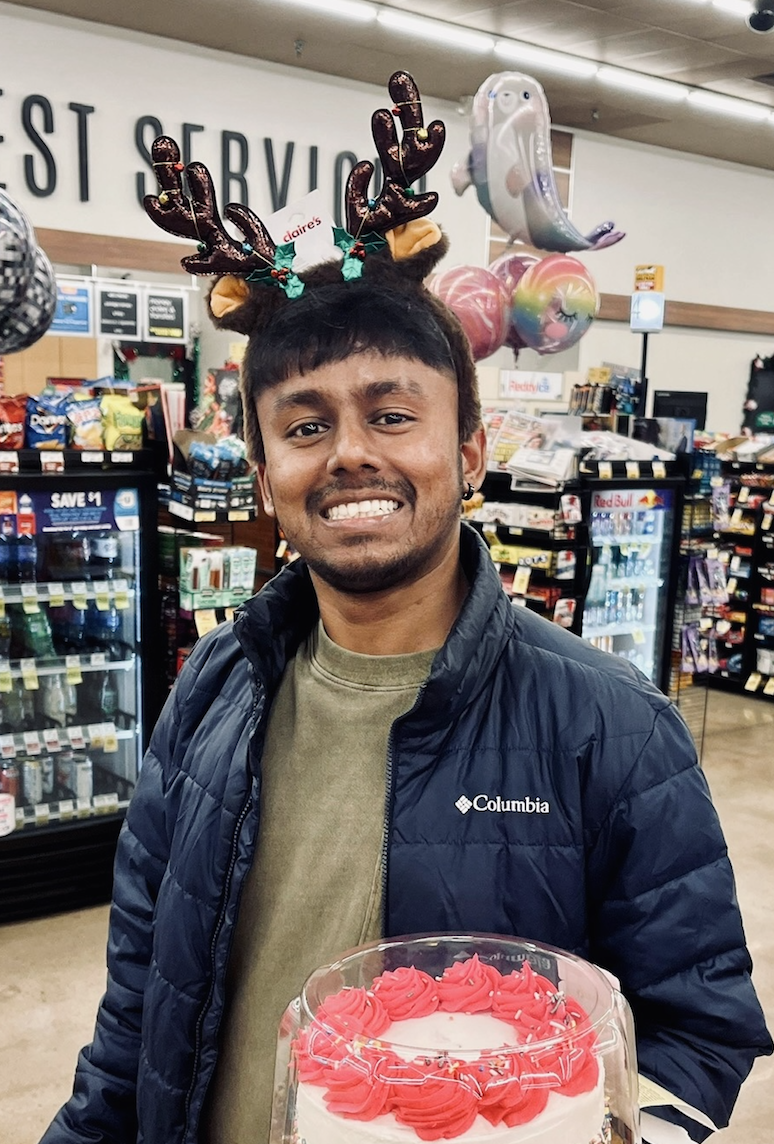
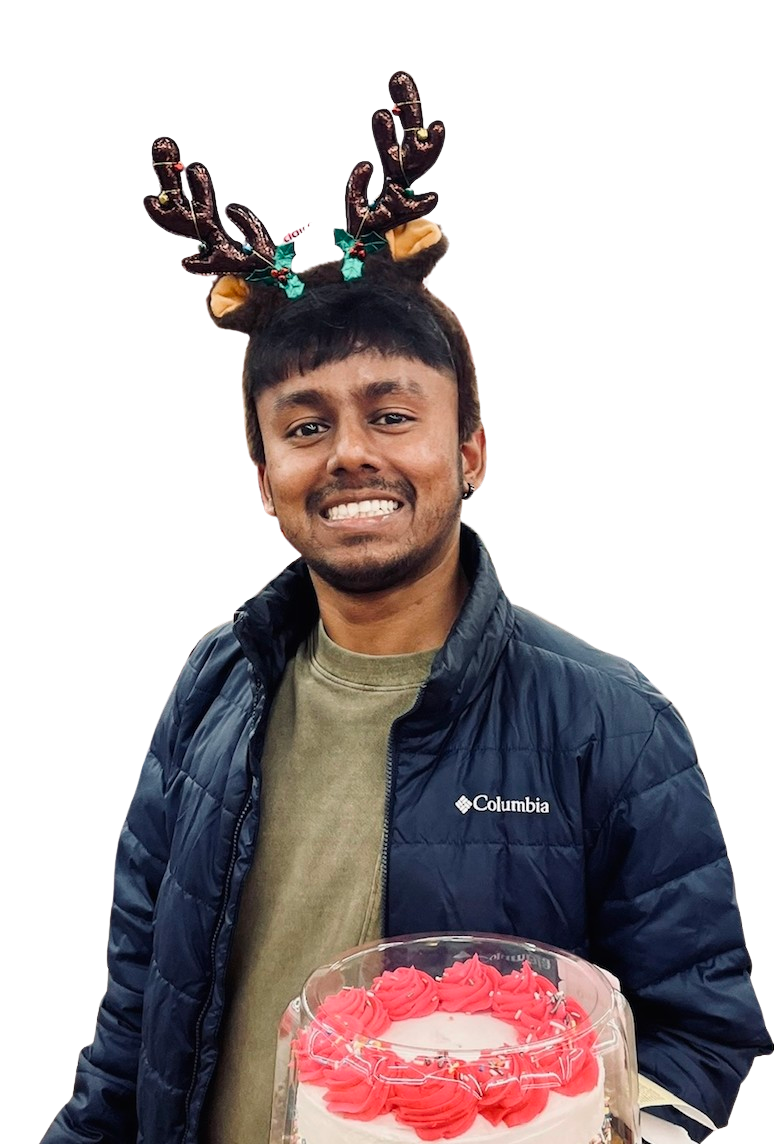
Adding new images and modifying homepage with css

diff --git a/index.html b/index.html
@@ -78,7 +78,7 @@
                   </p>
                   
                   <div class="info__image">
-                     <img src="assets/img/ash2.png" alt="image" class="info__img">
+                     <img src="assets/img/ash2.jpeg" alt="image" class="info__img">
                   </div>
 
                   <a href="assets/pdf/Ashwin_Chandrasekaran_Resume_2024.pdf" download target="_blank" class="button button__black">Resume</a>
@@ -99,7 +99,7 @@
                   <br>
                   <br>
                   <div class="about__image">
-                     <img src="assets/img/ash1.png" alt="image" class="about__img">
+                     <img src="assets/img/ash1.jpeg" alt="image" class="about__img">
                   </div>
                   <br></br> 
 
@@ -135,8 +135,6 @@
                </div>
             </div>
          </section>
-         <br></br>
-         <br></br>
          <!--==================== EXPERIENCE ====================-->
          <section class="experience section" id="experience">
             <h2 class="section__title">EXPERIENCE / WORK</h2>
@@ -205,15 +203,14 @@
                </article>
             </div>
          </section>
-         <br></br>
-         <br></br>
          <!--==================== PROJECTS ====================-->
          <section class="projects section" id="projects">
             <h2 class="section__title">RECENT PROJECTS</h2>
 
             <div class="projects__container container grid">
                <article class="projects__card">
-                  <a href="nautohub.html" class="projects__image">
+                  <a href="#" class="projects__image">
+                  <!-- <a href="nautohub.html" class="projects__image"> -->
                      <img src="assets/img/NMAS.jpeg" alt="image" class="projects__img">
                   </a>
 
@@ -235,7 +232,8 @@
                         <img src="assets/img/css.svg" alt="image" class="skills__item" title="css">
                      </div>
 
-                     <a href="nautohub.html" class="projects__button">
+                     <a href="#" class="projects__button">
+                     <!-- <a href="nautohub.html" class="projects__button"> -->
                         <i class="ri-link"></i> 
                         <span>Visit Project</span>
                      </a>
@@ -287,7 +285,6 @@
                </article>
             </div>
          </section>
-         <br></br>
          <br></br>
          <!--==================== Education ====================-->
          <section class="services section" id="education">
@@ -345,6 +342,7 @@
          </section>
          <br></br>
          <br></br>
+         <br></br>
          <!--==================== CONTACT ====================-->
          <section class="contact section" id="contact">
             <h2 class="section__title">CONTACT ME</h2>
@@ -365,8 +363,6 @@
             </div>
          </section>
       </main>
-      <br></br>
-      <br></br>
       <!--==================== FOOTER ====================-->
       <footer class="footer">
          <div class="footer__container container grid">
@@ -402,7 +398,7 @@
          </div>
 
          <span class="footer__copy">
-            &#169; All Rights Reserved By Ashwin Chandrasekaran.
+            &#169; 2025 Ashwin Chandrasekaran. All Rights Reserved.
          </span>
       </footer>
 
@@ -412,13 +408,13 @@
       </a>
 
       <!--=============== SCROLLREVEAL ===============-->
-      <script src="assets/js/scrollreveal.min.js"></script>
+      <script src="assets/js/scrollreveal.min.js" defer></script>
 
       <!--=============== EMAIL JS ===============-->
       <script src="https://cdn.jsdelivr.net/npm/@emailjs/browser@4/dist/email.min.js"></script>
 
       <!--=============== MAIN JS ===============-->
-      <script src="assets/js/main.js"></script>
+      <script src="assets/js/main.js" defer></script>
 
       <script>
          const cacheBustedCSS = `styles.css?ver=${new Date().getTime()}`;

diff --git a/assets/css/styles.css b/assets/css/styles.css
@@ -133,6 +133,7 @@ img {
 
 .section {
   padding-block: 2rem 3rem;
+  /* min-height: 90vh; */
 }
 
 .section__title {
@@ -272,7 +273,7 @@ img {
 .about,
 .skills {
   background-color: var(--container-color);
-  padding: 2rem 1.5rem;
+  padding: 1.5rem 1.5rem;
   border-radius: 2rem;
 }
 
@@ -722,7 +723,7 @@ img {
 
 /*=============== BREAKPOINTS ===============*/
 /* For small devices */
-@media screen and (max-width: 320px) {
+@media screen and (min-width: 320px) {
   .container {
     margin-inline: 1rem;
   }
@@ -730,13 +731,23 @@ img {
   .nav {
     padding: 1rem;
   }
-}
 
-@media screen and (min-width: 400px) {
+  .perfil__img {
+    min-width: 280px;
+  }
 
   .exp__logo {
     width: 200px;
     margin: 0 auto;
+  }
+}
+
+@media screen and (max-width: 400px) {
+
+  .perfil__img {
+    min-width: 320px;
+    position: absolute;
+    right: 0;
   }
 
 }
@@ -768,6 +779,12 @@ img {
 
   .perfil {
     height: 100%;
+  }
+
+  .perfil__img {
+    min-width: 320px;
+    position: absolute;
+    right: 0;
   }
 
   .projects__container,
@@ -825,6 +842,9 @@ img {
   }
   .perfil__img {
     width: 100%;
+    min-width: 500px;
+    position: absolute;
+    right: 0;
   }
 
   .perfil__data {
@@ -837,6 +857,11 @@ img {
     grid-column: 1/2;
     grid-row: 1/2;
   }
+
+  .info__image {
+    width: 100%;
+  }
+
   .info__name {
     font-size: var(--h2-font-size);
   }
@@ -847,10 +872,8 @@ img {
     align-content: center;
   }
   .about__image {
-    height: 210px;
-  }
-  .about__img {
-    transform: translateY(-1rem);
+    width: 100%;
+
   }
 
   .skills {
